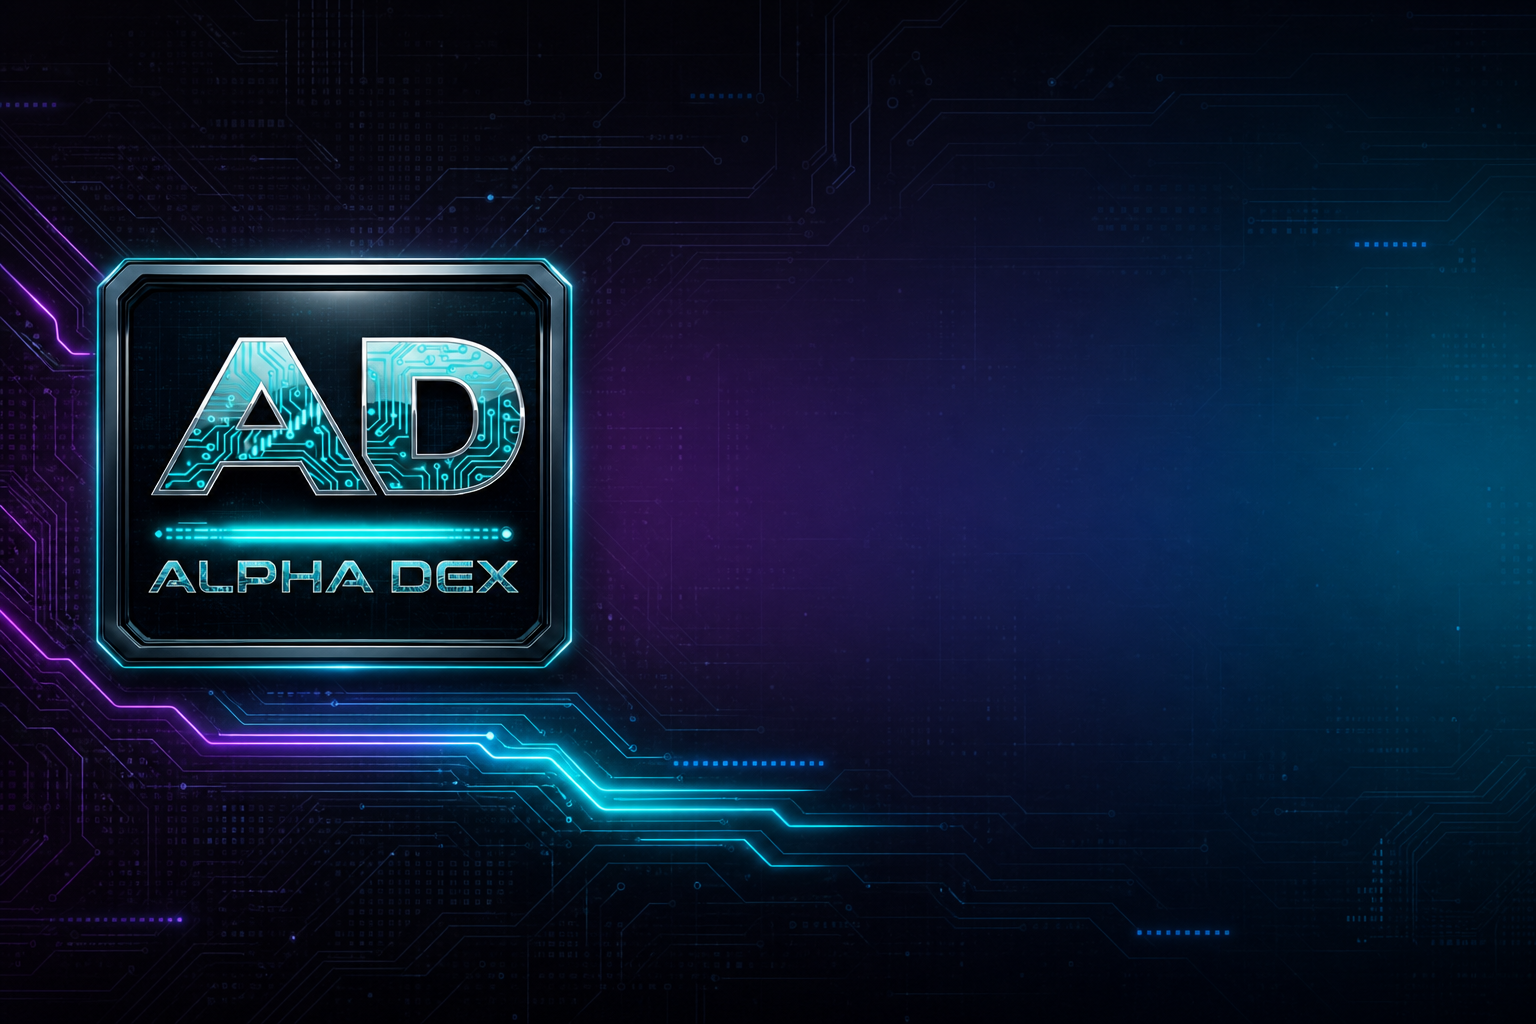
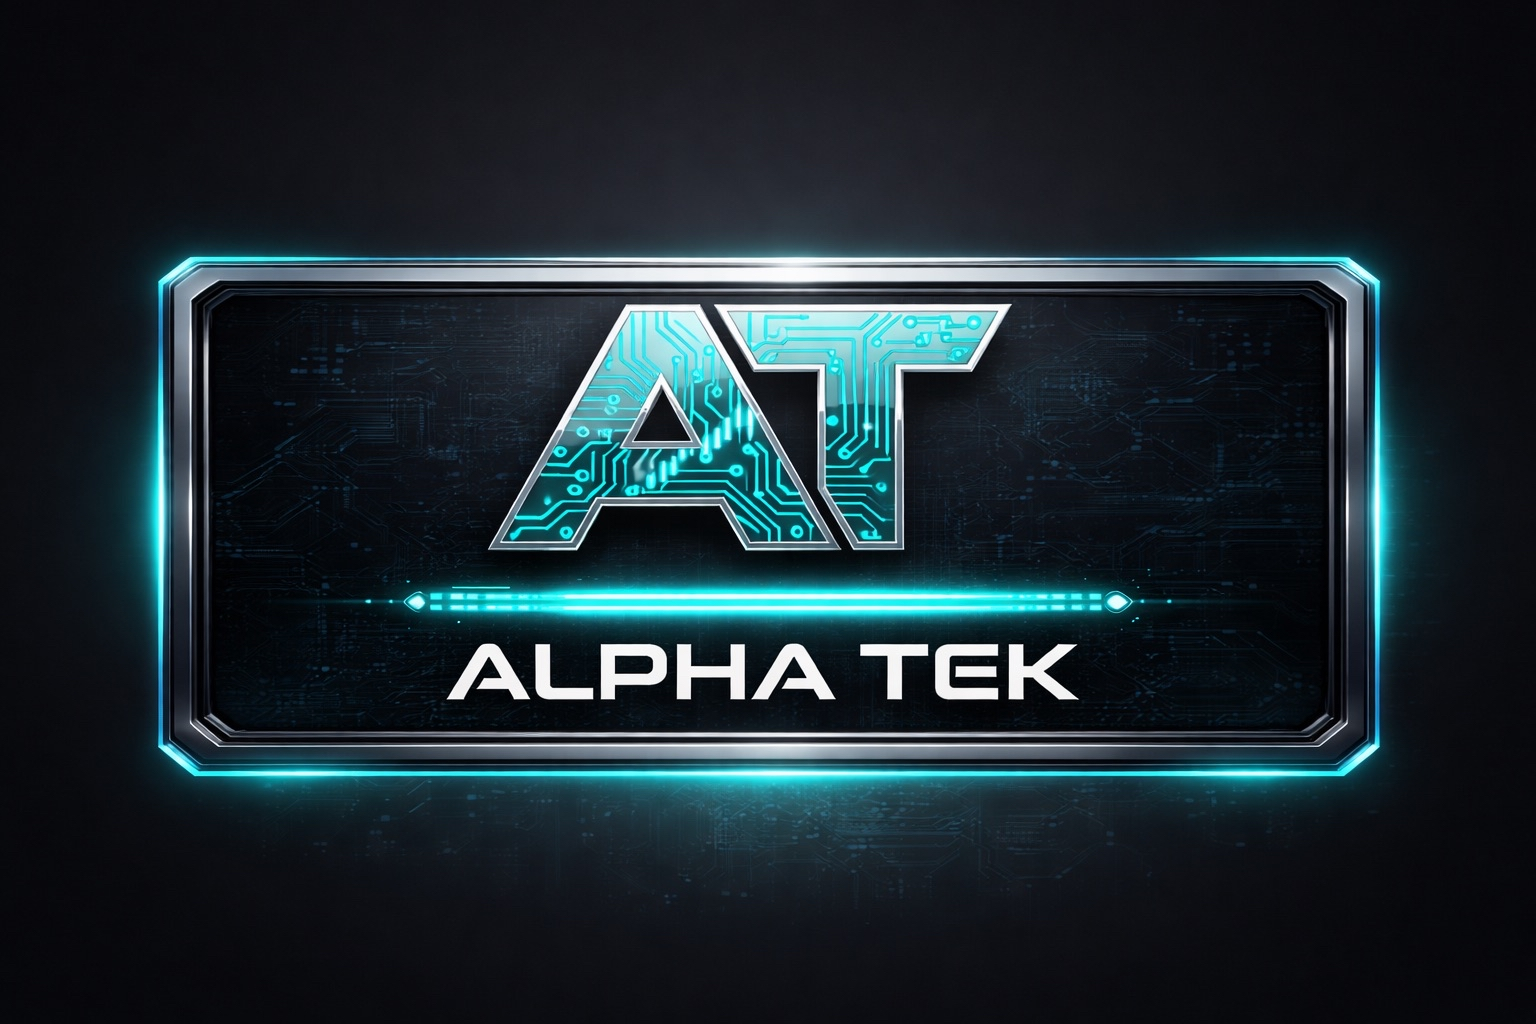
docs: Alpha Tek header and current product surfaces
Replace the Alpha Dex banner. Add News, Market Intel, the trench leaderboard and contests, the API library, MCP as coming soon, and Alpha Brain / MLM.

diff --git a/README.md b/README.md
@@ -15,7 +15,7 @@
 
   <p>
     <strong>Crypto Intelligence At One View</strong><br />
-    <sub>Web platform · Multi-chain · Explorer · Discover · TG Arena · KOL · Alpha Guard · AAI Hub</sub>
+    <sub>Web platform · Multi-chain · Explorer · Discover · News · Market Intel · TG Arena · KOL · Alpha Guard · Alpha Trench · AAI Hub</sub>
   </p>
 
   <p>
@@ -115,7 +115,15 @@ flowchart LR
 | **Market Replay** | Any token page → fullscreen chart playback, presentation mode |
 | **Alpha Academy** | Interactive education paths (courses, quizzes, certificates) |
 | **AAI Hub** | Stake / claim / utility rails (devnet program proof; mainnet gated) |
-| **Subscribe / Help** | Stripe-backed access + support surfaces |
+| **News Hub** | One merged headline desk: exchange news, CryptoRank, CoinGecko Buzz, Bitcoin.com |
+| **Market Intel** | Global metrics, market pulse, ETF net flow, derivatives, cycle indicators, click-through price chart |
+| **Watchlist** | Saved coins with price, market cap, volume, and 24h direction |
+| **Alpha Spy** | Entity and connection context for mints and wallets |
+| **Alpha Trench extension** | Instant Trade, paper books, Guard, Mint Intel. Linked sessions post to the live trench leaderboard and weekly trade contests |
+| **API Library** | **1,500+** platform endpoints behind one Alpha Tek session. Public catalog on the site, keys stay server-side |
+| **Alpha Tek MCP** | Coming soon. Same library, shaped for agents |
+| **Alpha Brain / MLM** | Append-only memory for calls, search heat, and replay. Query by mint, fast enough to rank Trench Cast and paper context |
+| **Subscribe / Help** | Stripe payments and support |
 | **Build Journey / Changelog** | Public ship log and contribution narrative |
 
 **Open it:** [https://www.alphatek.app](https://www.alphatek.app)
@@ -134,17 +142,22 @@ flowchart LR
            │                    │                    │
            ▼                    ▼                    ▼
    Epic Alpha Discord    Alpha Trench (ext)     AAI Utility
-   commands · feeds      paper · journal ·      stake · gates
+   commands · feeds      paper · journal ·      stake · referral
    free depth first      Trade Replay           flywheel
+                         live leaderboard
+                         weekly contests
                          Trench Cast (web)
 ```
 
 Everything is designed as **one ecosystem**, not three disconnected brands sharing a logo.
 
-- Portal ↔ Discord for command-and-control + community proof  
-- Portal ↔ Alpha Trench for pair-page execution / guard / journal / platform history replay  
-- Portal ↔ **Trench Replay Theater** for Cast, Forecast, Market Replay, Wallet Replay  
-- Portal ↔ AAI Hub for utility and retention  
+- Portal ↔ Discord for command-and-control + community proof
+- Portal ↔ Alpha Trench for pair-page execution, Guard, journal, and platform history replay
+- Portal ↔ the trench leaderboard and weekly trade contests when the extension session is linked
+- Portal ↔ **Trench Replay Theater** for Cast, Forecast, Market Replay, Wallet Replay
+- Portal ↔ Alpha Brain / MLM so calls, heat, and replay stay queryable by mint
+- Portal ↔ the API library (1,500+ endpoints). Alpha Tek MCP is the agent door, marked Coming Soon
+- Portal ↔ AAI Hub for utility, staking, and the referral ladder  
 
 See also:
 
@@ -167,7 +180,7 @@ Alpha branding is **public**. Vendor plumbing stays server-side. Partnerships an
 | **DEX / launch discovery** | Pump.fun ecosystem · Raydium-class pools · Dex research anchors |
 | **Social / KOL** | KOL Scan-class boards · curated X/Telegram call pathways |
 | **Markets** | CoinGecko · CMC-class macro · Hyperliquid perps context · prediction markets |
-| **Auth & payments** | Privy-class wallet login · Stripe subscriptions |
+| **Auth & payments** | Privy wallet login · Stripe subscriptions · JWT sessions |
 | **Infra** | Production cloud hosting · PostgreSQL · institutional UX themes |
 
 Exact routing is private IP. User-facing story: **many feeds, one Alpha layer.**
@@ -176,12 +189,13 @@ Exact routing is private IP. User-facing story: **many feeds, one Alpha layer.**
 
 ## Security Posture (What Users Should Expect)
 
-- **Server-side keys only** — client never holds provider API secrets  
-- **JWT / wallet session auth** for personal and paid surfaces  
-- **Freshness-aware UI** — live dashboards designed for honest data age, not silent stale panels  
-- **Alpha Guard** — safety language under Alpha brand on portal + extension + Discord  
+- **Server-side keys only.** The browser never holds provider API secrets.
+- **Privy** for wallet login, **Stripe** for payments, **JWT** for the Alpha Tek session.
+- **Freshness-aware UI.** Live dashboards show honest data age.
+- **Alpha Guard** on the portal, the extension, and Discord.
+- **Alpha Trench packages** ship with a SHA-256 and a VirusTotal report for that exact zip. The published 0.9.540 Windows and Safari builds scanned **0 malicious** and **0 suspicious**. That is evidence for those hashes, not a promise that every future build is clean. Reports live in the [Alpha Trench security note](https://github.com/JohnnyxSmokes/alpha-trench/blob/main/docs/SECURITY.md).
 
-Auditables (extension package, store listings, VirusTotal) ship when release artifacts exist. Platform monorepo remains private by default.
+The platform monorepo stays private. Entity tracking and Alpha Spy run through the same server-side layer as the rest of the intel desks.
 
 ---
 
@@ -210,7 +224,7 @@ Full synopsis: [alpha-tek-whitepaper](https://github.com/JohnnyxSmokes/alpha-tek
 | **Dev heat** | [github.com/JohnnyxSmokes](https://github.com/JohnnyxSmokes) contribution graph |
 | **Community** | [discord.gg/epicalpha](https://discord.gg/epicalpha) |
 
-Thousands of commits on the current platform era, grounded in a **14+ year** crypto track (BTC 2012 → present). Daily shipping discipline (Cursor Day **81** and counting). Private repositories intentionally hide competitive implementation while the **green grid** stays verifiable.
+Thousands of commits on the current platform era, grounded in a **14+ year** crypto track (BTC 2012 to present). The public changelog is the ship log. Private repositories hide competitive implementation while the contribution graph stays verifiable.
 
 ---
 
